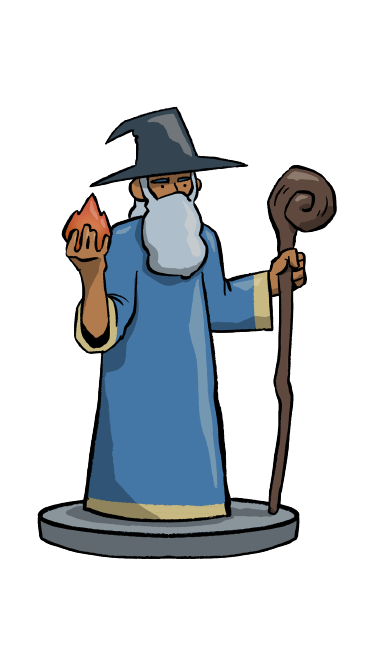
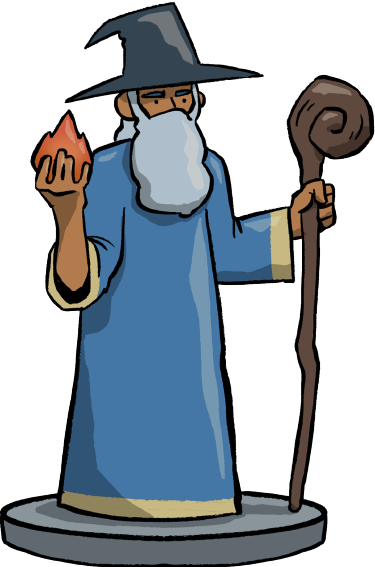
new images

diff --git a/hero-choice/adventure-start/hero-2/index.html b/hero-choice/adventure-start/hero-2/index.html
@@ -122,7 +122,11 @@
                     <div id="option-9" class="option nine"></div>
                 </div>
             </div>
-                
+            
+            <div class="mountains">
+                <div class="mountain-1"></div>
+                <div class="mountain-2"></div>
+            </div>
 
             <div class="snow">
                 <div class="snowflake snow-1 odd"></div>

diff --git a/index.css b/index.css
@@ -217,10 +217,10 @@ main {
     position: absolute;
     left: 60px;
     bottom: -27px;
-    background-image: url(./assets/images/2-removebg-preview.png);
+    background-image: url(./assets/images/5-removebg-preview.png);
     background-position: center;
     background-size: cover;
-    height: 250px;
+    height: 310px;
     width: 200px;
 }
 

diff --git a/hero-choice/adventure-start/hero-2/index.css b/hero-choice/adventure-start/hero-2/index.css
@@ -195,3 +195,18 @@ header {
 .story-telling {
     margin-bottom: 40px;
 }
+
+
+.mountains {
+    display: flex;
+    justify-content: end;
+    width: 100%;
+    position: absolute;
+    bottom: 0;
+}
+
+.mountain-1 {
+    background-image: url(../../../assets/images/30-removebg-preview.png);
+    width: 350px;
+    height: 550px;
+}
